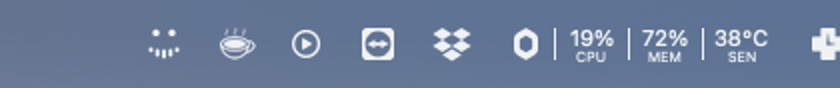
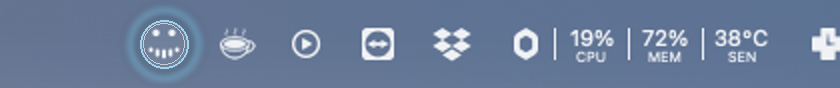
site: correct Settings model defaults; highlight AFK in menubar shot
Regenerate screenshot-settings.png with real xAI defaults from
Provider.defaultModel (grok-voice-transcribe-2.0 / grok-4-1-fast-non-reasoning)
instead of grok-audio / grok-3-mini. Soft cyan glow ring around the AFK
wave-face in menubar 1x/@2x strips. Add scripts/render-site-screenshots.swift
as the ImageRenderer source of truth for composed site stills.

Changed region(s): [[0.1548, 0.2273, 0.2167, 0.7955], [0.2167, 0.3864, 0.2476, 0.6136]]

diff --git a/scripts/render-site-screenshots.swift b/scripts/render-site-screenshots.swift
@@ -1,0 +1,208 @@
+import AppKit
+import SwiftUI
+
+@main
+struct RenderApp {
+  static func main() {
+    let app = NSApplication.shared
+    app.setActivationPolicy(.prohibited)
+    Task { @MainActor in
+      await renderAll()
+      exit(0)
+    }
+    app.run()
+  }
+}
+
+@MainActor
+func renderAll() async {
+  let assets = NSString(string: "~/Documents/GitHub/afk/docs/site/assets").expandingTildeInPath
+
+  func save<V: View>(_ view: V, size: CGSize, path: String, scale: CGFloat = 2) {
+    let renderer = ImageRenderer(content: view.frame(width: size.width, height: size.height))
+    renderer.scale = scale
+    guard let img = renderer.nsImage,
+          let tiff = img.tiffRepresentation,
+          let rep = NSBitmapImageRep(data: tiff),
+          let png = rep.representation(using: .png, properties: [:]) else {
+      fputs("failed \(path)\n", stderr); return
+    }
+    let url = URL(fileURLWithPath: path)
+    try? png.write(to: url)
+    print("wrote \(path) \(png.count)")
+  }
+
+  struct ListeningPill: View {
+    var body: some View {
+      HStack(spacing: 10) {
+        Circle().fill(Color.red).frame(width: 8, height: 8)
+        HStack(spacing: 3) {
+          ForEach(0..<9, id: \.self) { i in
+            let heights: [CGFloat] = [6,10,16,20,22,18,12,8,5]
+            Capsule().fill(Color.white).frame(width: 3, height: heights[i])
+          }
+        }.frame(height: 22)
+        Text("hold Fn → speak → paste at the caret").lineLimit(1)
+        Text("0:02").monospacedDigit().foregroundColor(.white.opacity(0.6))
+      }
+      .font(.system(size: 13, weight: .medium))
+      .foregroundColor(.white)
+      .padding(.horizontal, 16)
+      .frame(height: 40)
+      .background(Capsule().fill(Color.black.opacity(0.82)))
+      .overlay(Capsule().stroke(Color.white.opacity(0.14), lineWidth: 1))
+      .shadow(color: .black.opacity(0.35), radius: 10, y: 3)
+      .padding(24)
+      .frame(maxWidth: .infinity, maxHeight: .infinity)
+    }
+  }
+
+  struct ListeningScene: View {
+    var body: some View {
+      ZStack {
+        LinearGradient(colors: [Color(red:0.12,green:0.12,blue:0.16), Color(red:0.08,green:0.09,blue:0.14)], startPoint: .topLeading, endPoint: .bottomTrailing)
+        VStack { Spacer(); ListeningPill(); Spacer().frame(height: 48) }
+      }
+    }
+  }
+
+  struct SettingsMock: View {
+    var body: some View {
+      VStack(alignment: .leading, spacing: 12) {
+        group("Speech-to-text") {
+          row("Provider", value: "xAI Grok (default)")
+          modelRow("grok-voice-transcribe-2.0")
+          Text("Streams while you talk (live text in the pill).").font(.caption).foregroundColor(.secondary)
+        }
+        group("Polish") {
+          row("Provider", value: "xAI Grok (default)")
+          modelRow("grok-4-1-fast-non-reasoning")
+        }
+        group("API Keys") {
+          keyRow("xAI Grok", status: "Saved on this Mac")
+          keyRow("OpenRouter", status: "Not set")
+          keyRow("OpenAI", status: "Not set")
+          keyRow("Custom", status: "Optional")
+        }
+        Spacer(minLength: 0)
+        HStack {
+          Text("Keys are saved only on this Mac, readable by your user.").font(.caption).foregroundColor(.secondary)
+          Spacer()
+          Text("Cancel").padding(.horizontal, 10).padding(.vertical, 4)
+            .background(RoundedRectangle(cornerRadius: 6).fill(Color.gray.opacity(0.15)))
+          Text("Save").fontWeight(.semibold).foregroundColor(.white)
+            .padding(.horizontal, 12).padding(.vertical, 5)
+            .background(RoundedRectangle(cornerRadius: 6).fill(Color.accentColor))
+        }
+      }
+      .padding(16)
+      .frame(width: 560, height: 520, alignment: .topLeading)
+      .background(Color(nsColor: .windowBackgroundColor))
+    }
+    func group<C: View>(_ title: String, @ViewBuilder content: () -> C) -> some View {
+      VStack(alignment: .leading, spacing: 8) {
+        Text(title).font(.headline)
+        VStack(alignment: .leading, spacing: 6) { content() }
+          .padding(8).frame(maxWidth: .infinity, alignment: .leading)
+          .background(RoundedRectangle(cornerRadius: 8).fill(Color.primary.opacity(0.04)))
+          .overlay(RoundedRectangle(cornerRadius: 8).stroke(Color.primary.opacity(0.08)))
+      }
+    }
+    func row(_ label: String, value: String) -> some View {
+      HStack {
+        Text(label).frame(width: 72, alignment: .leading)
+        Text(value).font(.system(size: 12, design: .monospaced))
+          .padding(.horizontal, 8).padding(.vertical, 4)
+          .frame(maxWidth: .infinity, alignment: .leading)
+          .background(RoundedRectangle(cornerRadius: 5).stroke(Color.primary.opacity(0.15)))
+      }
+    }
+    func modelRow(_ value: String) -> some View {
+      HStack(spacing: 8) {
+        Text("Model").frame(width: 72, alignment: .leading)
+        Text(value).font(.system(size: 12, design: .monospaced))
+          .padding(.horizontal, 8).padding(.vertical, 4)
+          .frame(maxWidth: .infinity, alignment: .leading)
+          .background(RoundedRectangle(cornerRadius: 5).stroke(Color.primary.opacity(0.15)))
+        Text("Default").font(.system(size: 12))
+          .padding(.horizontal, 8).padding(.vertical, 4)
+          .background(RoundedRectangle(cornerRadius: 6).fill(Color.gray.opacity(0.15)))
+      }
+    }
+
+    func keyRow(_ name: String, status: String) -> some View {
+      HStack(alignment: .firstTextBaseline) {
+        Text(name).frame(width: 80, alignment: .leading)
+        VStack(alignment: .leading, spacing: 2) {
+          Text("••••••••••••").font(.system(size: 12, design: .monospaced))
+            .padding(.horizontal, 8).padding(.vertical, 4)
+            .frame(maxWidth: .infinity, alignment: .leading)
+            .background(RoundedRectangle(cornerRadius: 5).stroke(Color.primary.opacity(0.15)))
+          Text(status).font(.caption2).foregroundColor(.secondary)
+        }
+      }
+    }
+  }
+
+  struct SettingsWindowChrome: View {
+    var body: some View {
+      VStack(spacing: 0) {
+        HStack(spacing: 7) {
+          Circle().fill(Color(red:1,green:0.38,blue:0.35)).frame(width: 12, height: 12)
+          Circle().fill(Color(red:1,green:0.74,blue:0.25)).frame(width: 12, height: 12)
+          Circle().fill(Color(red:0.15,green:0.79,blue:0.35)).frame(width: 12, height: 12)
+          Spacer()
+          Text("AFK Settings").font(.system(size: 13, weight: .medium))
+          Spacer()
+          Color.clear.frame(width: 50)
+        }
+        .padding(.horizontal, 12).frame(height: 36)
+        .background(Color(nsColor: .windowBackgroundColor))
+        SettingsMock()
+      }
+      .clipShape(RoundedRectangle(cornerRadius: 10))
+      .overlay(RoundedRectangle(cornerRadius: 10).stroke(Color.black.opacity(0.25), lineWidth: 1))
+      .shadow(color: .black.opacity(0.45), radius: 28, y: 14)
+      .padding(36)
+      .frame(width: 640, height: 620)
+      .background(LinearGradient(colors: [Color(red:0.10,green:0.11,blue:0.15), Color(red:0.06,green:0.07,blue:0.10)], startPoint: .top, endPoint: .bottom))
+    }
+  }
+
+  struct HeroCard: View {
+    var body: some View {
+      ZStack {
+        LinearGradient(colors: [Color(red:0.09,green:0.10,blue:0.14), Color(red:0.05,green:0.06,blue:0.09)], startPoint: .topLeading, endPoint: .bottomTrailing)
+        VStack(spacing: 28) {
+          HStack(spacing: 14) {
+            ZStack {
+              RoundedRectangle(cornerRadius: 22).fill(Color.black)
+              VStack(spacing: 10) {
+                HStack(spacing: 18) {
+                  Circle().fill(Color.white).frame(width: 10, height: 10)
+                  Circle().fill(Color.white).frame(width: 10, height: 10)
+                }
+                HStack(alignment: .bottom, spacing: 5) {
+                  Capsule().fill(Color.white).frame(width: 7, height: 12)
+                  Capsule().fill(Color.white).frame(width: 7, height: 18)
+                  Capsule().fill(Color.white).frame(width: 7, height: 22)
+                  Capsule().fill(Color.white).frame(width: 7, height: 18)
+                  Capsule().fill(Color.white).frame(width: 7, height: 12)
+                }
+              }
+            }.frame(width: 72, height: 72)
+            Text("AFK").font(.system(size: 56, weight: .bold)).tracking(2).foregroundColor(.white)
+          }
+          Text("Away From Keyboard").font(.system(size: 18, weight: .medium)).foregroundColor(.white.opacity(0.55))
+          ListeningPill().padding(.top, 8)
+        }
+      }
+    }
+  }
+
+  save(ListeningPill().frame(width: 560, height: 96), size: CGSize(width: 560, height: 96), path: "\(assets)/screenshot-listening-pill.png")
+  save(ListeningScene(), size: CGSize(width: 960, height: 420), path: "\(assets)/screenshot-listening.png")
+  save(SettingsWindowChrome(), size: CGSize(width: 640, height: 620), path: "\(assets)/screenshot-settings.png")
+  save(HeroCard(), size: CGSize(width: 1200, height: 630), path: "\(assets)/og-image.png")
+  save(HeroCard(), size: CGSize(width: 1100, height: 640), path: "\(assets)/screenshot-hero.png")
+}
